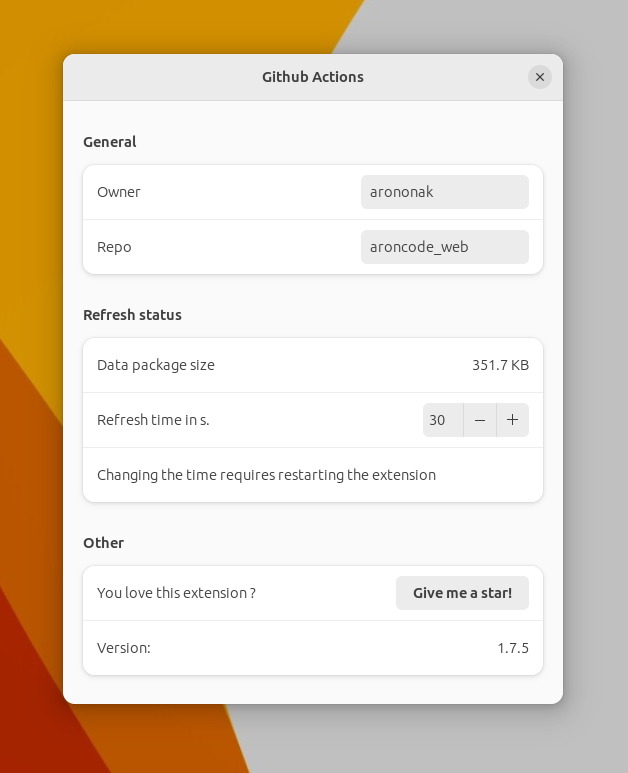
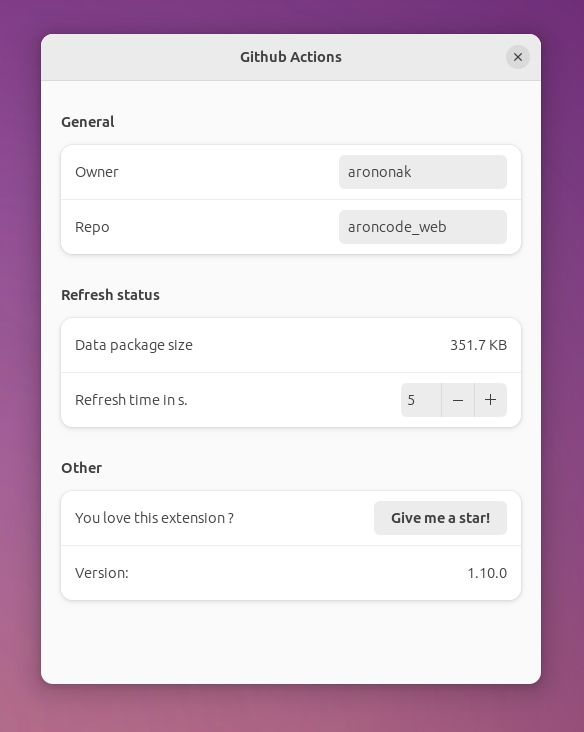
Added settings auto-refresh

diff --git a/github-actions@arononak.github.io/extension.js b/github-actions@arononak.github.io/extension.js
@@ -402,21 +402,31 @@ class Extension {
 
     enable() {
         this.settings = ExtensionUtils.getSettings('org.gnome.shell.extensions.github-actions');
+        this.settings.connect('changed::refresh-time', (settings, key) => {
+            this.stopRefreshing();
+            this.startRefreshing();
+        });
+
         this.indicator = new Indicator(() => this.refresh());
-
-        this.hotRefreshInterval = setInterval(() => hotRefresh(this.settings, this.indicator), this.settings.get_int('refresh-time') * 1000);
-        this.coldRefreshInterval = setInterval(() => coldRefresh(this.settings, this.indicator), 5 * 60 * 1000);
-        this.refresh();
-
         Main.panel.addToStatusArea(this._uuid, this.indicator);
+        this.startRefreshing();
     }
 
     disable() {
+        this.stopRefreshing();
         this.indicator.destroy();
         this.indicator.menu = null;
         this.indicator = null;
         this.settings = null;
+    }
 
+    startRefreshing() {
+        this.refresh();
+        this.hotRefreshInterval = setInterval(() => hotRefresh(this.settings, this.indicator), this.settings.get_int('refresh-time') * 1000);
+        this.coldRefreshInterval = setInterval(() => coldRefresh(this.settings, this.indicator), 5 * 60 * 1000);
+    }
+
+    stopRefreshing() {
         clearInterval(this.hotRefreshInterval);
         this.hotRefreshInterval = null;
 

diff --git a/github-actions@arononak.github.io/prefs.js b/github-actions@arononak.github.io/prefs.js
@@ -55,9 +55,6 @@ function fillPreferencesWindow(window) {
     refreshRow.activatable_widget = spinButton;
     settings.bind('refresh-time', spinButton, 'value', Gio.SettingsBindFlags.DEFAULT);
 
-    const tipRow = new Adw.ActionRow();
-    tipRow.add_prefix(new Gtk.Label({ label: 'Changing the time requires restarting the extension', halign: Gtk.Align.START, valign: Gtk.Align.CENTER }));
-
     const dataRow = new Adw.ActionRow({ title: 'Data package size ' });
     dataRow.add_suffix(new Gtk.Label({ label: utils.prefsPackageSize(settings), halign: Gtk.Align.START, valign: Gtk.Align.CENTER }));
 
@@ -79,7 +76,6 @@ function fillPreferencesWindow(window) {
     const refreshStatusGroup = new Adw.PreferencesGroup({ title: 'Refresh status' });
     refreshStatusGroup.add(dataRow);
     refreshStatusGroup.add(refreshRow);
-    refreshStatusGroup.add(tipRow);
 
     const otherGroup = new Adw.PreferencesGroup({ title: 'Other' });
     otherGroup.add(starRow);
